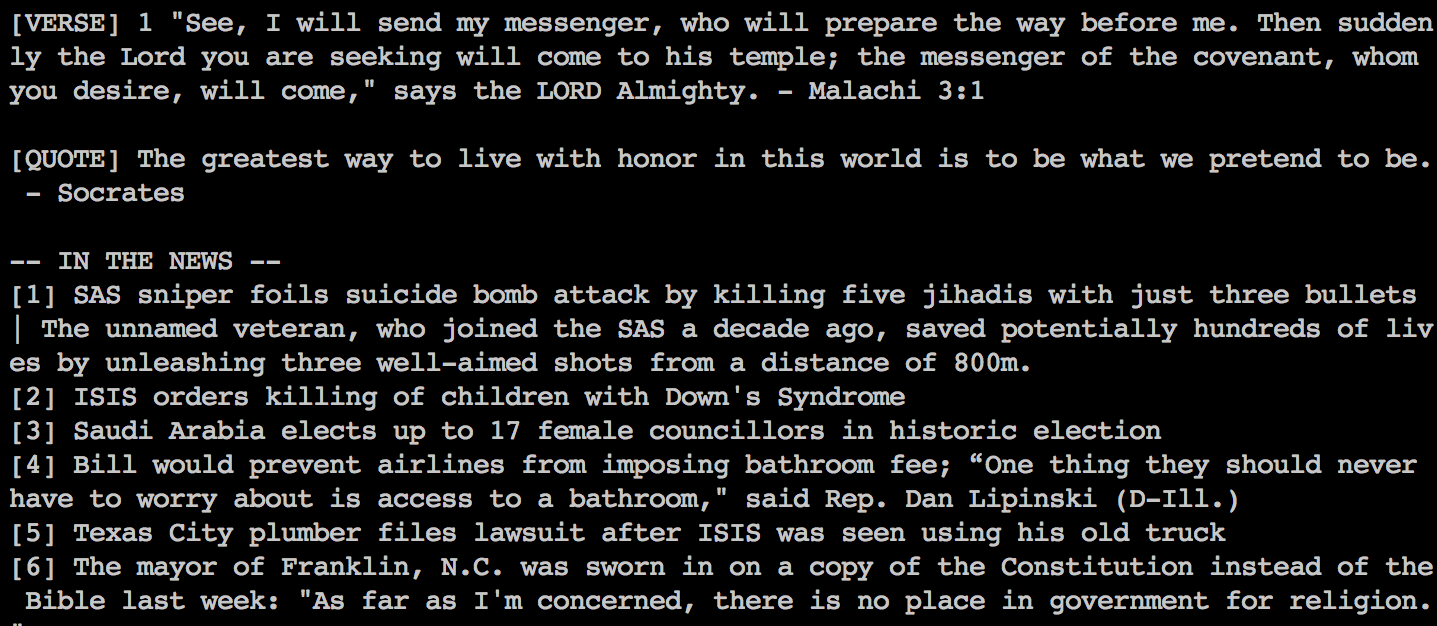
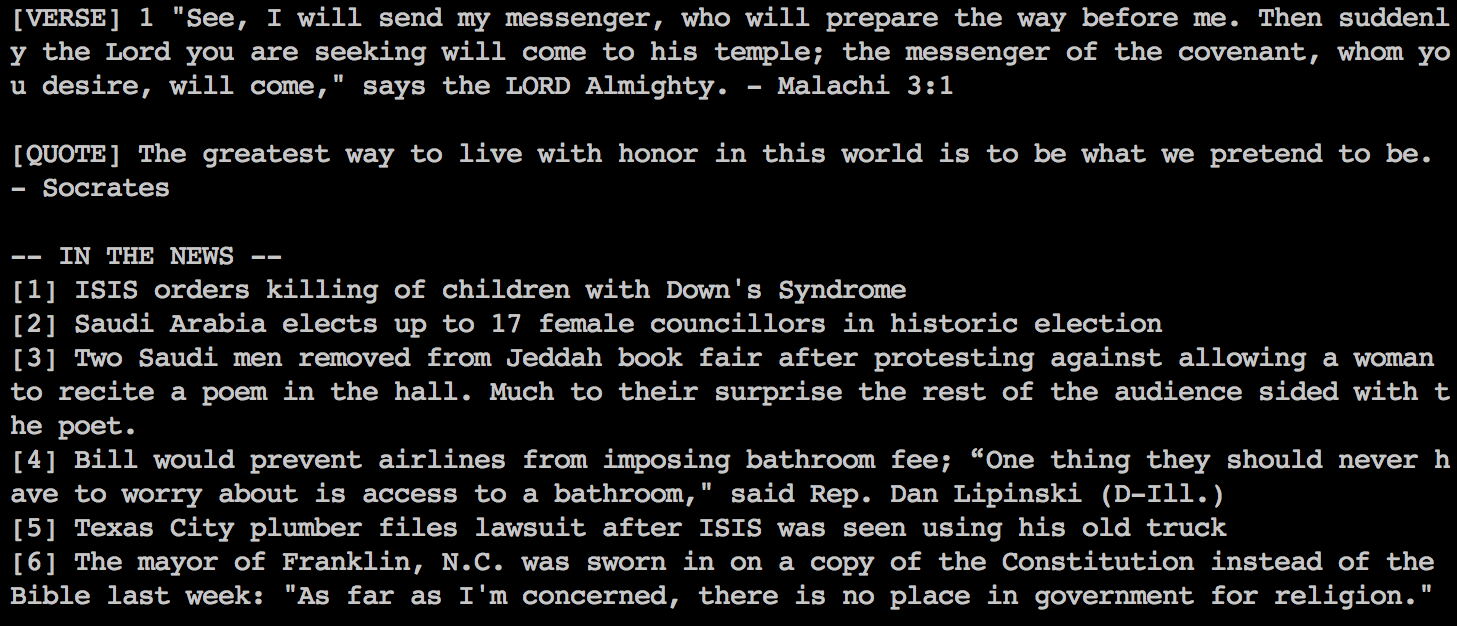
Updated screenshots

Changed region(s): [[0.0, 0.3946, 1.0, 0.9712], [0.0, 0.0, 1.0, 0.1821], [0.0, 0.2125, 1.0, 0.3339]]

diff --git a/README.md b/README.md
@@ -1,5 +1,8 @@
 # #ROTD
 ROTD is a python script which provides a recap of the day by web scraping various websites. The recap consists of a bible verse, an inspirational quote, and a mini RSS-feed displaying headlines of current news from [/r/news] and [/r/worldnews].
+
+![](redditnews.png)
+
 ### Purpose
 This script was designed to be run at the start of a terminal session to provide a composite information block from various websites.
 * To stay up to date with current events and news
@@ -19,6 +22,7 @@ $ alias dr='python rotd.py'
 $ dr
 ```
 ![](screenshot.png)
+
 ### Options
 When the information block above is unwanted, the remove-all option should be used, or to revert back, the -reset option should be used. In order to sync news with the most current, the -sync-current-news option should be used. To open the news article in a web browser, the -open-link option should be used with the article number desired.
 ```
